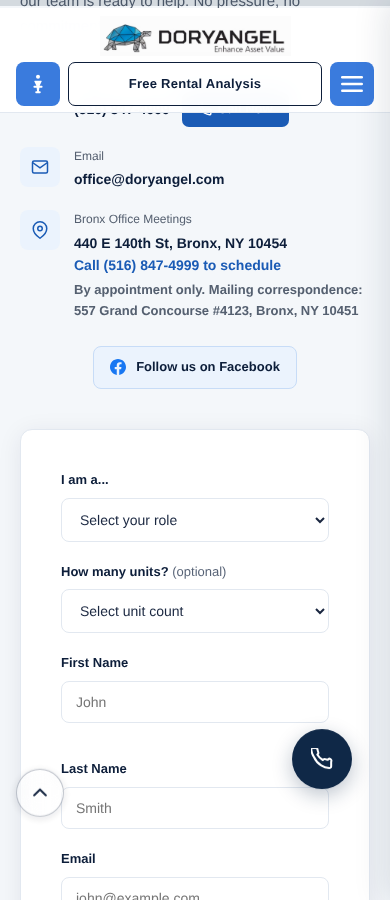
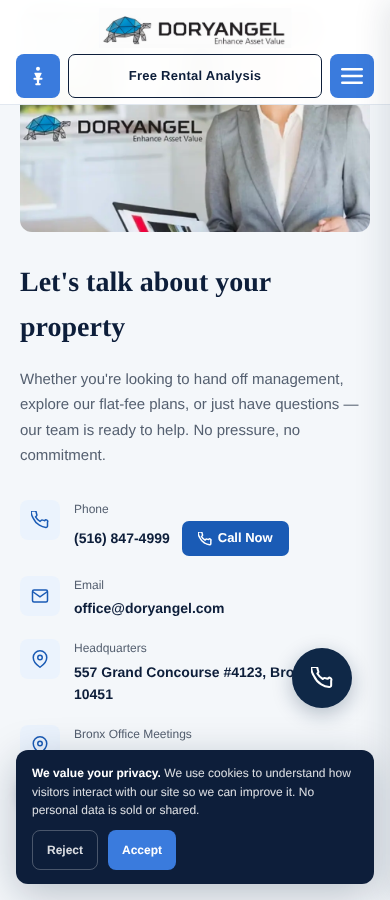
Issue #313 Batch 2: online enrollment interest preview; keep 557 Grand Concourse as HQ
- coming-soon teaser + interest modal (Web3Forms inbox only, tagged source/interest, GA4 events)
- optional call/text consent kept optional; failed submits are shown, not hidden
- contact: Headquarters (557 Grand Concourse) and Bronx Office Meetings (440 E 140th, face-to-face by appointment) as matching rows
- verify:site-facts extended; preview evidence updated

Claude-Session: https://claude.ai/code/session_01RL2X5UmmicEunxoEvbyQxo

diff --git a/index.html b/index.html
@@ -714,6 +714,22 @@ picture { display: contents; }
 .rent-direct p { margin: 0 auto; max-width: 640px; line-height: 1.65; color: var(--text-muted); font-size: 16px; }
 @media (max-width: 755px) { .pricing-grid.pricing-grid--two { grid-template-columns: 1fr; max-width: 420px; } }
 
+/* Online enrollment preview (interest test only: no payment, no signature) */
+.enroll-preview { max-width: 820px; margin: 32px auto 0; padding: 26px 28px; background: #fff; border: 2px dashed var(--blue); border-radius: 16px; text-align: center; }
+.enroll-preview-tag { display: inline-block; font-size: 11px; font-weight: 700; letter-spacing: .1em; text-transform: uppercase; color: var(--blue); background: var(--blue-dim); padding: 4px 12px; border-radius: 999px; margin-bottom: 12px; }
+.enroll-preview h3 { font-family: 'DM Serif Display', serif; color: var(--navy); font-size: clamp(20px, 3.4vw, 26px); line-height: 1.25; margin: 0 0 10px; }
+.enroll-preview p { margin: 0 auto 14px; max-width: 620px; line-height: 1.6; color: var(--text-muted); }
+.enroll-preview-steps { display: flex; flex-wrap: wrap; gap: 8px; justify-content: center; list-style: none; padding: 0; margin: 0 0 18px; }
+.enroll-preview-steps li { font-size: 13px; font-weight: 600; color: var(--navy); background: var(--blue-dim); padding: 6px 12px; border-radius: 8px; }
+.enroll-preview .btn-secondary { min-height: 48px; }
+.enroll-preview-note { font-size: 13px; font-weight: 700; color: var(--navy); margin: 14px auto 0 !important; }
+.ep-field-row { display: grid; grid-template-columns: 1fr 1fr; gap: 10px; }
+@media (max-width: 480px) { .ep-field-row { grid-template-columns: 1fr; } }
+.ep-consent { display: flex; gap: 10px; align-items: flex-start; font-size: 12px; line-height: 1.5; color: #4B5563; margin: 4px 0 12px; }
+.ep-consent input { width: 20px; height: 20px; margin-top: 2px; flex-shrink: 0; }
+.ep-error { display: none; font-size: 13px; color: #B42318; background: #FEF3F2; border-radius: 8px; padding: 10px 12px; margin: 0 0 12px; }
+.toolgate-field input:focus-visible, .ep-consent input:focus-visible, .toolgate-submit:focus-visible, .toolgate-close:focus-visible { outline: 3px solid #1E5AA8; outline-offset: 2px; }
+
 /* PRICING */
 .pricing-grid {
   display: grid; grid-template-columns: repeat(3, 1fr); gap: 24px;
@@ -2309,6 +2325,63 @@ retell-chat-web-component {
   </div>
 </div>
 
+<!-- Online enrollment interest (Batch 2 preview): Web3Forms inbox only. No payment, no signature,
+     no Make webhook (the notify-gate confirmation email would promise a tool launch). -->
+<div class="toolgate-overlay hidden" id="enrollOverlay" role="dialog" aria-modal="true" aria-labelledby="enrollTitle">
+  <div class="toolgate-modal" id="enrollModal" style="width:min(460px,94vw);max-height:92vh;overflow:auto;">
+    <div class="toolgate-head">
+      <button class="toolgate-close" id="enrollClose" type="button" aria-label="Close">&times;</button>
+      <h4 id="enrollTitle">Notify me when online enrollment opens</h4>
+      <p>Coming soon. No payment or agreement is processed here.</p>
+    </div>
+    <div class="toolgate-body">
+      <form id="enrollForm" novalidate>
+        <input type="hidden" name="access_key" value="6991fa6b-8f6c-4c24-9167-b7ee52026a98">
+        <input type="checkbox" name="botcheck" id="enrollBotcheck" tabindex="-1" autocomplete="off" aria-hidden="true" style="display:none">
+        <input type="hidden" name="subject" value="Online Enrollment Interest (coming-soon preview)">
+        <input type="hidden" name="from_name" value="DoryAngel Website">
+        <input type="hidden" name="source" value="website_online_enrollment_preview">
+        <input type="hidden" name="interest" value="online_enrollment_preview_99_first_6_months">
+        <div class="toolgate-field">
+          <label for="enrollAddress">Property address <span style="font-weight:400;">(optional)</span></label>
+          <input type="text" id="enrollAddress" name="property_address" autocomplete="street-address" placeholder="Street, Bronx NY">
+        </div>
+        <div class="ep-field-row">
+          <div class="toolgate-field">
+            <label for="enrollCovered">Units to manage <span style="font-weight:400;">(optional)</span></label>
+            <input type="number" id="enrollCovered" name="units_to_manage" min="1" max="999" inputmode="numeric">
+          </div>
+          <div class="toolgate-field">
+            <label for="enrollOccupied">Occupied today <span style="font-weight:400;">(optional)</span></label>
+            <input type="number" id="enrollOccupied" name="units_occupied" min="0" max="999" inputmode="numeric">
+          </div>
+        </div>
+        <div class="toolgate-field">
+          <label for="enrollEmail">Email <span style="color:#D14343;">*</span></label>
+          <input type="email" id="enrollEmail" name="email" required autocomplete="email" placeholder="you@email.com">
+        </div>
+        <div class="toolgate-field">
+          <label for="enrollPhone">Phone <span style="font-weight:400;">(optional)</span></label>
+          <input type="tel" id="enrollPhone" name="phone" autocomplete="tel" placeholder="(555) 555-5555">
+        </div>
+        <div class="ep-consent">
+          <input type="checkbox" id="enrollConsent" name="tcpa_consent" value="yes">
+          <label for="enrollConsent"><strong>Optional:</strong> let <strong>DoryAngel LLC</strong> contact me by phone or text about this. Not required to submit or to use our services. Message frequency varies; message and data rates may apply. Reply STOP to opt out. See <a href="./sms-consent.html">SMS Consent</a> and <a href="./privacy.html">Privacy Policy</a>.</label>
+        </div>
+        <p class="ep-error" id="enrollError" role="alert"></p>
+        <button type="submit" class="toolgate-submit" id="enrollSubmit">Notify Me &rarr;</button>
+        <p class="toolgate-note">We will email you when enrollment opens. Nothing is charged or signed.</p>
+      </form>
+      <div id="enrollSuccess" class="toolgate-success" style="display:none;" role="status" tabindex="-1">
+        <div class="toolgate-success-icon" style="background:#EEF4FF;">&#10003;</div>
+        <h5>You&rsquo;re on the list.</h5>
+        <p>We&rsquo;ll email you when online enrollment opens. In the meantime you can <a href="#contact" id="enrollToContact">request a free rental analysis</a>.</p>
+        <button type="button" id="enrollDone" style="margin-top:16px;background:#1E5AA8;color:#fff;border:none;padding:10px 22px;border-radius:8px;font-weight:700;font-size:14px;cursor:pointer;font-family:inherit;min-height:44px;">Close</button>
+      </div>
+    </div>
+  </div>
+</div>
+
 <!-- Property P&L Dashboard checkout modal -->
 <div class="pm-overlay hidden" id="pmModal" role="dialog" aria-modal="true" aria-label="Purchase Property P&L Dashboard">
   <div class="pm-modal-box" id="pmModalBox">
@@ -3086,10 +3159,23 @@ retell-chat-web-component {
     </div>
     <p class="pricing-terms">Only occupied covered units are billed. Lease-renewal administration is $100 per completed renewal. Brokerage work (handled by licensed brokers or other authorized providers) and third-party vendor costs are disclosed before you authorize them. Full terms are in your written management agreement.</p>
 
+    <div class="enroll-preview" id="enroll-preview">
+      <span class="enroll-preview-tag">Coming soon</span>
+      <h3>Online Enrollment Preview &mdash; $99/occupied unit/month for the first 6 months</h3>
+      <p>Interested in signing up online? Be among the first to know when enrollment opens. The regular price after six months will be displayed and expressly agreed before any enrollment or higher charge.</p>
+      <ol class="enroll-preview-steps" aria-label="How the preview offer is planned to work">
+        <li>1. First 6 months: $99/occupied unit/mo</li>
+        <li>2. Then: your regular agreed fee</li>
+        <li>3. You approve before any higher charge</li>
+      </ol>
+      <button type="button" class="btn-secondary" id="enroll-interest-open" aria-haspopup="dialog">I&rsquo;m Interested &mdash; Notify Me</button>
+      <p class="enroll-preview-note">Coming soon. No payment or agreement is processed here yet.</p>
+    </div>
+
     <div class="pricing-faq" role="group" aria-label="Pricing questions">
       <details><summary>What counts as an occupied or covered unit?</summary><p>Covered units are the units listed in your management agreement. You are billed only for covered units that are occupied. Vacant covered units cost $0 until a tenant moves in. Units outside the agreement are not managed or charged.</p></details>
       <details><summary>Is the $99 rate available for my 2-unit property?</summary><p>The ongoing $99 rate applies when at least 10 units are included in one management agreement. Smaller properties are quoted individually, so request a quote and we will tell you the flat fee for your building.</p></details>
-      <details><summary>What happens to pricing after month six of an online promotion?</summary><p>Online enrollment is not open yet. If a promotional rate is offered later, the regular price will be shown and agreed in writing before enrollment, and we will not charge more without your approval.</p></details>
+      <details><summary>What happens to pricing after month six of an online promotion?</summary><p>Online enrollment is not open yet. The planned preview offer is $99 per occupied unit per month for the first six months. After that, your regular agreed fee applies. It will be shown and agreed in writing before enrollment, and we will not charge more without your approval.</p></details>
       <details><summary>What is the $100 lease-renewal fee?</summary><p>It covers the administration and coordination of a completed lease renewal. It is listed separately from the monthly rate so you can see it up front.</p></details>
       <details><summary>Who receives my tenants’ rent?</summary><p>You do. Tenants pay directly into your bank account. We review payment receipts and your confirmations, flag discrepancies, and send a monthly Owner Statement. We do not hold your rent funds.</p></details>
       <details><summary>How do I meet someone in person?</summary><p>We hold scheduled meetings at our Bronx office, 440 E 140th St, Bronx, NY 10454. Call <a href="tel:+15168474999">(516) 847-4999</a> to book a time. Our licensed broker partner can join when a listing or sale is involved.</p></details>
@@ -4914,8 +5000,21 @@ retell-chat-web-component {
             </svg>
           </div>
           <div>
+            <div class="contact-detail-label">Headquarters</div>
+            <div class="contact-detail-val">557 Grand Concourse #4123, Bronx, NY 10451</div>
+          </div>
+        </div>
+
+        <div class="contact-detail">
+          <div class="contact-detail-icon">
+            <svg viewBox="0 0 24 24" fill="none" stroke="currentColor" stroke-width="2">
+              <path d="M21 10c0 7-9 13-9 13s-9-6-9-13a9 9 0 0118 0z"/>
+              <circle cx="12" cy="10" r="3"/>
+            </svg>
+          </div>
+          <div>
             <div class="contact-detail-label">Bronx Office Meetings</div>
-            <div class="contact-detail-val">440 E 140th St, Bronx, NY 10454<br><a href="tel:+15168474999" style="color:var(--blue);font-weight:600;text-decoration:none;">Call (516) 847-4999 to schedule</a><div style="font-size:13px;font-weight:400;color:var(--text-muted);margin-top:4px;">By appointment only. Mailing correspondence: 557 Grand Concourse #4123, Bronx, NY 10451</div></div>
+            <div class="contact-detail-val">440 E 140th St, Bronx, NY 10454<br><a href="tel:+15168474999" style="color:var(--blue);font-weight:600;text-decoration:none;">Call (516) 847-4999 to schedule</a><div style="font-size:13px;font-weight:400;color:var(--text-muted);margin-top:4px;">Face-to-face meetings by appointment only</div></div>
           </div>
         </div>
 
@@ -6210,6 +6309,70 @@ document.addEventListener('DOMContentLoaded', function() {
     }).catch(function(){});
     form.style.display = 'none';
     document.getElementById('notifyGateSuccess').style.display = 'block';
+  });
+});
+</script>
+
+<script>
+/* Online enrollment interest: open / close / submit, with focus handling and real error reporting.
+   Unlike the notify gate, a failed submit is shown to the visitor instead of reported as success. */
+document.addEventListener('DOMContentLoaded', function () {
+  var openBtn = document.getElementById('enroll-interest-open');
+  var overlay = document.getElementById('enrollOverlay');
+  if (!openBtn || !overlay) return;
+  var form = document.getElementById('enrollForm'), ok = document.getElementById('enrollSuccess');
+  var err = document.getElementById('enrollError'), btn = document.getElementById('enrollSubmit');
+  var email = document.getElementById('enrollEmail'), lastFocus = null;
+  function ga(name, label) { try { if (typeof gtag !== 'undefined') gtag('event', name, { event_category: 'lead', event_label: label }); } catch (e) {} }
+  function focusables() { return Array.prototype.filter.call(overlay.querySelectorAll('button, [href], input:not([type=hidden]):not([name=botcheck]), select, textarea'), function (el) { return el.offsetParent !== null && !el.disabled; }); }
+  function open() {
+    lastFocus = document.activeElement;
+    form.style.display = ''; ok.style.display = 'none'; err.style.display = 'none'; btn.disabled = false;
+    overlay.classList.remove('hidden'); document.body.style.overflow = 'hidden';
+    ga('online_enrollment_interest_open', 'pricing_preview');
+    setTimeout(function () { document.getElementById('enrollAddress').focus(); }, 60);
+  }
+  function close() {
+    overlay.classList.add('hidden'); document.body.style.overflow = '';
+    if (lastFocus && lastFocus.focus) lastFocus.focus();
+  }
+  openBtn.addEventListener('click', open);
+  document.getElementById('enrollClose').addEventListener('click', close);
+  document.getElementById('enrollDone').addEventListener('click', close);
+  document.getElementById('enrollToContact').addEventListener('click', close);
+  overlay.addEventListener('click', function (e) { if (e.target === overlay) close(); });
+  document.addEventListener('keydown', function (e) {
+    if (overlay.classList.contains('hidden')) return;
+    if (e.key === 'Escape') { close(); return; }
+    if (e.key === 'Tab') {
+      var f = focusables(); if (!f.length) return;
+      var first = f[0], last = f[f.length - 1];
+      if (e.shiftKey && document.activeElement === first) { e.preventDefault(); last.focus(); }
+      else if (!e.shiftKey && document.activeElement === last) { e.preventDefault(); first.focus(); }
+    }
+  });
+  function fail(msg) { err.innerHTML = msg; err.style.display = 'block'; btn.disabled = false; }
+  form.addEventListener('submit', function (e) {
+    e.preventDefault();
+    err.style.display = 'none';
+    var v = email.value.trim();
+    if (!v || !/^[^@\s]+@[^@\s]+\.[^@\s]+$/.test(v)) { email.style.borderColor = '#D14343'; email.focus(); fail('Please enter a valid email address.'); return; }
+    email.style.borderColor = '';
+    if (btn.disabled) return;
+    btn.disabled = true;   // debounce: one submit, one inbox email
+    var data = new FormData(form);
+    if (!document.getElementById('enrollConsent').checked) data.set('tcpa_consent', 'no');
+    fetch('https://api.web3forms.com/submit', { method: 'POST', body: data })
+      .then(function (r) { return r.json(); })
+      .then(function (res) {
+        if (!res || res.success !== true) throw new Error('rejected');
+        ga('online_enrollment_interest_submit', 'pricing_preview');
+        if (typeof gtag !== 'undefined') { try { gtag('event', 'generate_lead', { event_category: 'lead', event_label: 'online_enrollment_interest' }); } catch (e2) {} }
+        form.style.display = 'none'; ok.style.display = 'block'; ok.focus();
+      })
+      .catch(function () {
+        fail('Sorry, that did not go through. Please try again or call <a href="tel:+15168474999">(516) 847-4999</a>.');
+      });
   });
 });
 </script>

diff --git a/faq/index.html b/faq/index.html
@@ -114,7 +114,7 @@
     {
       "@type": "Question",
       "name": "What areas does DoryAngel serve?",
-      "acceptedAnswer": { "@type": "Answer", "text": "The Bronx is our home base. We hold scheduled client meetings at our office at 440 E 140th St, Bronx (call (516) 847-4999 to book), and we also manage properties in Queens, Manhattan, Yonkers, Mount Vernon, New Rochelle, and parts of North Jersey. Our expertise is deepest where the rules are toughest: NYC's HPD, DHCR, and Local Law landscape. If you own in or near the Bronx, we can help. You can see the full service overview on our homepage." }
+      "acceptedAnswer": { "@type": "Answer", "text": "The Bronx is our home base. Our headquarters is at 557 Grand Concourse, and we hold scheduled face-to-face client meetings at 440 E 140th St, Bronx (call (516) 847-4999 to book). We also manage properties in Queens, Manhattan, Yonkers, Mount Vernon, New Rochelle, and parts of North Jersey. Our expertise is deepest where the rules are toughest: NYC's HPD, DHCR, and Local Law landscape. If you own in or near the Bronx, we can help. You can see the full service overview on our homepage." }
     },
     {
       "@type": "Question",
@@ -516,7 +516,7 @@ footer { background: var(--navy); padding: 60px 32px 36px; }
 
     <div class="faq-item">
       <button class="faq-q" aria-expanded="false">What areas does DoryAngel serve?<span class="faq-icon" aria-hidden="true">+</span></button>
-      <div class="faq-a"><div class="faq-a-inner">The Bronx is our home base. We hold scheduled client meetings at our office at 440 E 140th St, Bronx (call (516) 847-4999 to book), and we also manage properties in Queens, Manhattan, Yonkers, Mount Vernon, New Rochelle, and parts of North Jersey. Our expertise is deepest where the rules are toughest: NYC's HPD, DHCR, and Local Law landscape. If you own in or near the Bronx, we can help. You can see the full <a href="../#services">service overview</a> on our homepage.</div></div>
+      <div class="faq-a"><div class="faq-a-inner">The Bronx is our home base. Our headquarters is at 557 Grand Concourse, and we hold scheduled face-to-face client meetings at 440 E 140th St, Bronx (call (516) 847-4999 to book). We also manage properties in Queens, Manhattan, Yonkers, Mount Vernon, New Rochelle, and parts of North Jersey. Our expertise is deepest where the rules are toughest: NYC's HPD, DHCR, and Local Law landscape. If you own in or near the Bronx, we can help. You can see the full <a href="../#services">service overview</a> on our homepage.</div></div>
     </div>
 
     <div class="faq-item">

diff --git a/scripts/lib/__verify__/verify-site-facts.js b/scripts/lib/__verify__/verify-site-facts.js
@@ -55,12 +55,24 @@ check('blog pages were scanned', pages > 0);
 // Facts that MUST be present.
 const idx = read('index.html');
 check('index.html shows the Bronx meeting office', idx.includes('440 E 140th St, Bronx, NY 10454'));
-check('index.html keeps the mailing address labelled as mailing', /Mailing correspondence: 557 Grand Concourse #4123/.test(idx));
+check('index.html keeps 557 Grand Concourse as Headquarters', /Headquarters<\/div>\s*<div class="contact-detail-val">557 Grand Concourse #4123/.test(idx));
+check('440 E 140th is labelled as appointment-only meetings, not HQ', /Bronx Office Meetings<\/div>/.test(idx) && /Face-to-face meetings by appointment only/.test(idx));
 check('index.html states the 10+ unit threshold next to $99', /\$99<span>\/occupied unit\/mo<\/span>/.test(idx) && /10 or more units/.test(idx));
 check('index.html states the $100 renewal fee', /\$100 per completed (?:lease )?renewal/.test(idx));
 check('index.html says rent is paid directly to the owner', /Your Rent Goes Directly to You/.test(idx));
 check('hero CTA stays Free Rental Analysis', /Get My Free Rental Analysis/.test(idx));
 check('Nave prompt carries the 10+ rule', /ONLY when at least 10 units/.test(read('scripts/generate-post.js')));
+
+
+// Batch 2: the online-enrollment teaser is an interest test only.
+check('teaser says coming soon with no payment or agreement', /Coming soon\. No payment or agreement is processed here yet\./.test(idx));
+check('teaser CTA is Notify Me, not Enroll', /I&rsquo;m Interested &mdash; Notify Me/.test(idx) && !/Enroll Now|Sign Up Now|Pay Now/i.test(idx));
+const modal = (idx.match(/id="enrollOverlay"[\s\S]*?<!-- Property P&L Dashboard checkout modal -->/) || [''])[0];
+check('interest form is tagged with a source and interest', /name="source" value="website_online_enrollment_preview"/.test(modal) && /name="interest" value="online_enrollment_preview/.test(modal));
+check('interest form uses the Web3Forms honeypot (botcheck), not _honey', /name="botcheck"/.test(modal) && !/_honey/.test(modal));
+check('interest form keeps call/text consent optional', /name="tcpa_consent"/.test(modal) && !/name="tcpa_consent"[^>]*required/.test(modal));
+check('interest form does not hit the Make webhook', !/hook\.eu1\.make\.com/.test((idx.match(/Online enrollment interest: open[\s\S]*?<\/script>/) || [''])[0]));
+check('teaser GA4 events are wired', /online_enrollment_interest_open/.test(idx) && /online_enrollment_interest_submit/.test(idx));
 
 // Calculator must never compute $99 below 10 units.
 const calc = read('flat-fee-vs-commission/index.html');

diff --git a/project/preview-313/README.md b/project/preview-313/README.md
@@ -9,7 +9,7 @@ Headless Chromium, third-party hosts blocked, so fonts and the Retell/UserWay ov
 | Pricing cards | Starter $99 "single-unit owners", Professional $199, Portfolio custom | 1-9 units: request a quote. 10+ units: $99 per occupied unit/mo, one agreement |
 | Terms line + FAQ | none | occupied-only billing, $100 renewal, brokerage/vendor costs disclosed; 6 native `<details>` Q&As |
 | Rent | "Online rent collection", "owner disbursements" (page, FAQ, JSON-LD) | "Your Rent Goes Directly to You" band; tenants pay owners, Owner Statement |
-| Office | "Headquarters: 557 Grand Concourse" | Bronx Office Meetings, 440 E 140th St, tap-to-call, by appointment; 557 labelled mailing |
+| Office | single "Headquarters: 557 Grand Concourse" row | Two matching rows: Headquarters (557 Grand Concourse #4123, unchanged) and Bronx Office Meetings (440 E 140th St, tap-to-call, face-to-face by appointment) |
 | Hero | "See Pricing Plans" | "Schedule a Bronx Office Meeting" (tel:). H1, Free Rental Analysis CTA, LCP markup untouched |
 | Hero card | "98% rent collection rate" | "Rent paid directly to owners / Monthly Owner Statement" |
 | Calculator | `units*99` for 1-10 units | slider 1-50; <10 units needs the visitor's own quoted rate, no savings shown until entered; renewal fee and occupancy caveats |
@@ -23,7 +23,7 @@ Headless Chromium, third-party hosts blocked, so fonts and the Retell/UserWay ov
 ## BLOCKED — owner / legal decisions, nothing guessed
 1. Still unsubstantiated and left as-is: "158+ Units Managed" (about section), "100+ properties managed" (hero and trust rotator), 5.0/21 reviews counts.
 2. "No setup fees / no contracts" removed where found; confirm what agreement v1.4 says before re-adding.
-3. 440 E 140th is NOT in JSON-LD `address` until Google Business Profile matches (NAP consistency).
+3. Per owner: 557 Grand Concourse stays the Headquarters (page, schema `address`, legal pages); 440 E 140th is the face-to-face meeting/scheduling office and is not in JSON-LD `address`. Add it as a separate `location` only after Google Business Profile matches.
 4. 21 blog post bodies still mention $99; need review. Posts are not edited here.
 5. Outside this repo: Retell agent prompt (Hailey), Make email templates, GBP, and the Owner Portal micro-site may repeat the old claims.
-6. Online-enrollment teaser is Batch 2 (not built). Promo applies to website sign-ups of any size per owner; the regular post-6-month price must be shown or referenced.
+6. Batch 2 (built): "Online Enrollment Preview" teaser + interest modal. Interest only: no payment, no signature, no Make webhook. Web3Forms inbox, tagged `source=website_online_enrollment_preview`, GA4 events `online_enrollment_interest_open|submit` + `generate_lead`. Optional TCPA box kept optional. Unlike the notify gate, a failed submit is shown to the visitor. No Turnstile (honeypot `botcheck` only), same exposure as the notify gate; revisit with the Web3Forms key rotation. Eligibility for the promo beyond "website sign-ups" is not stated on the page: BLOCKED until you define it.
